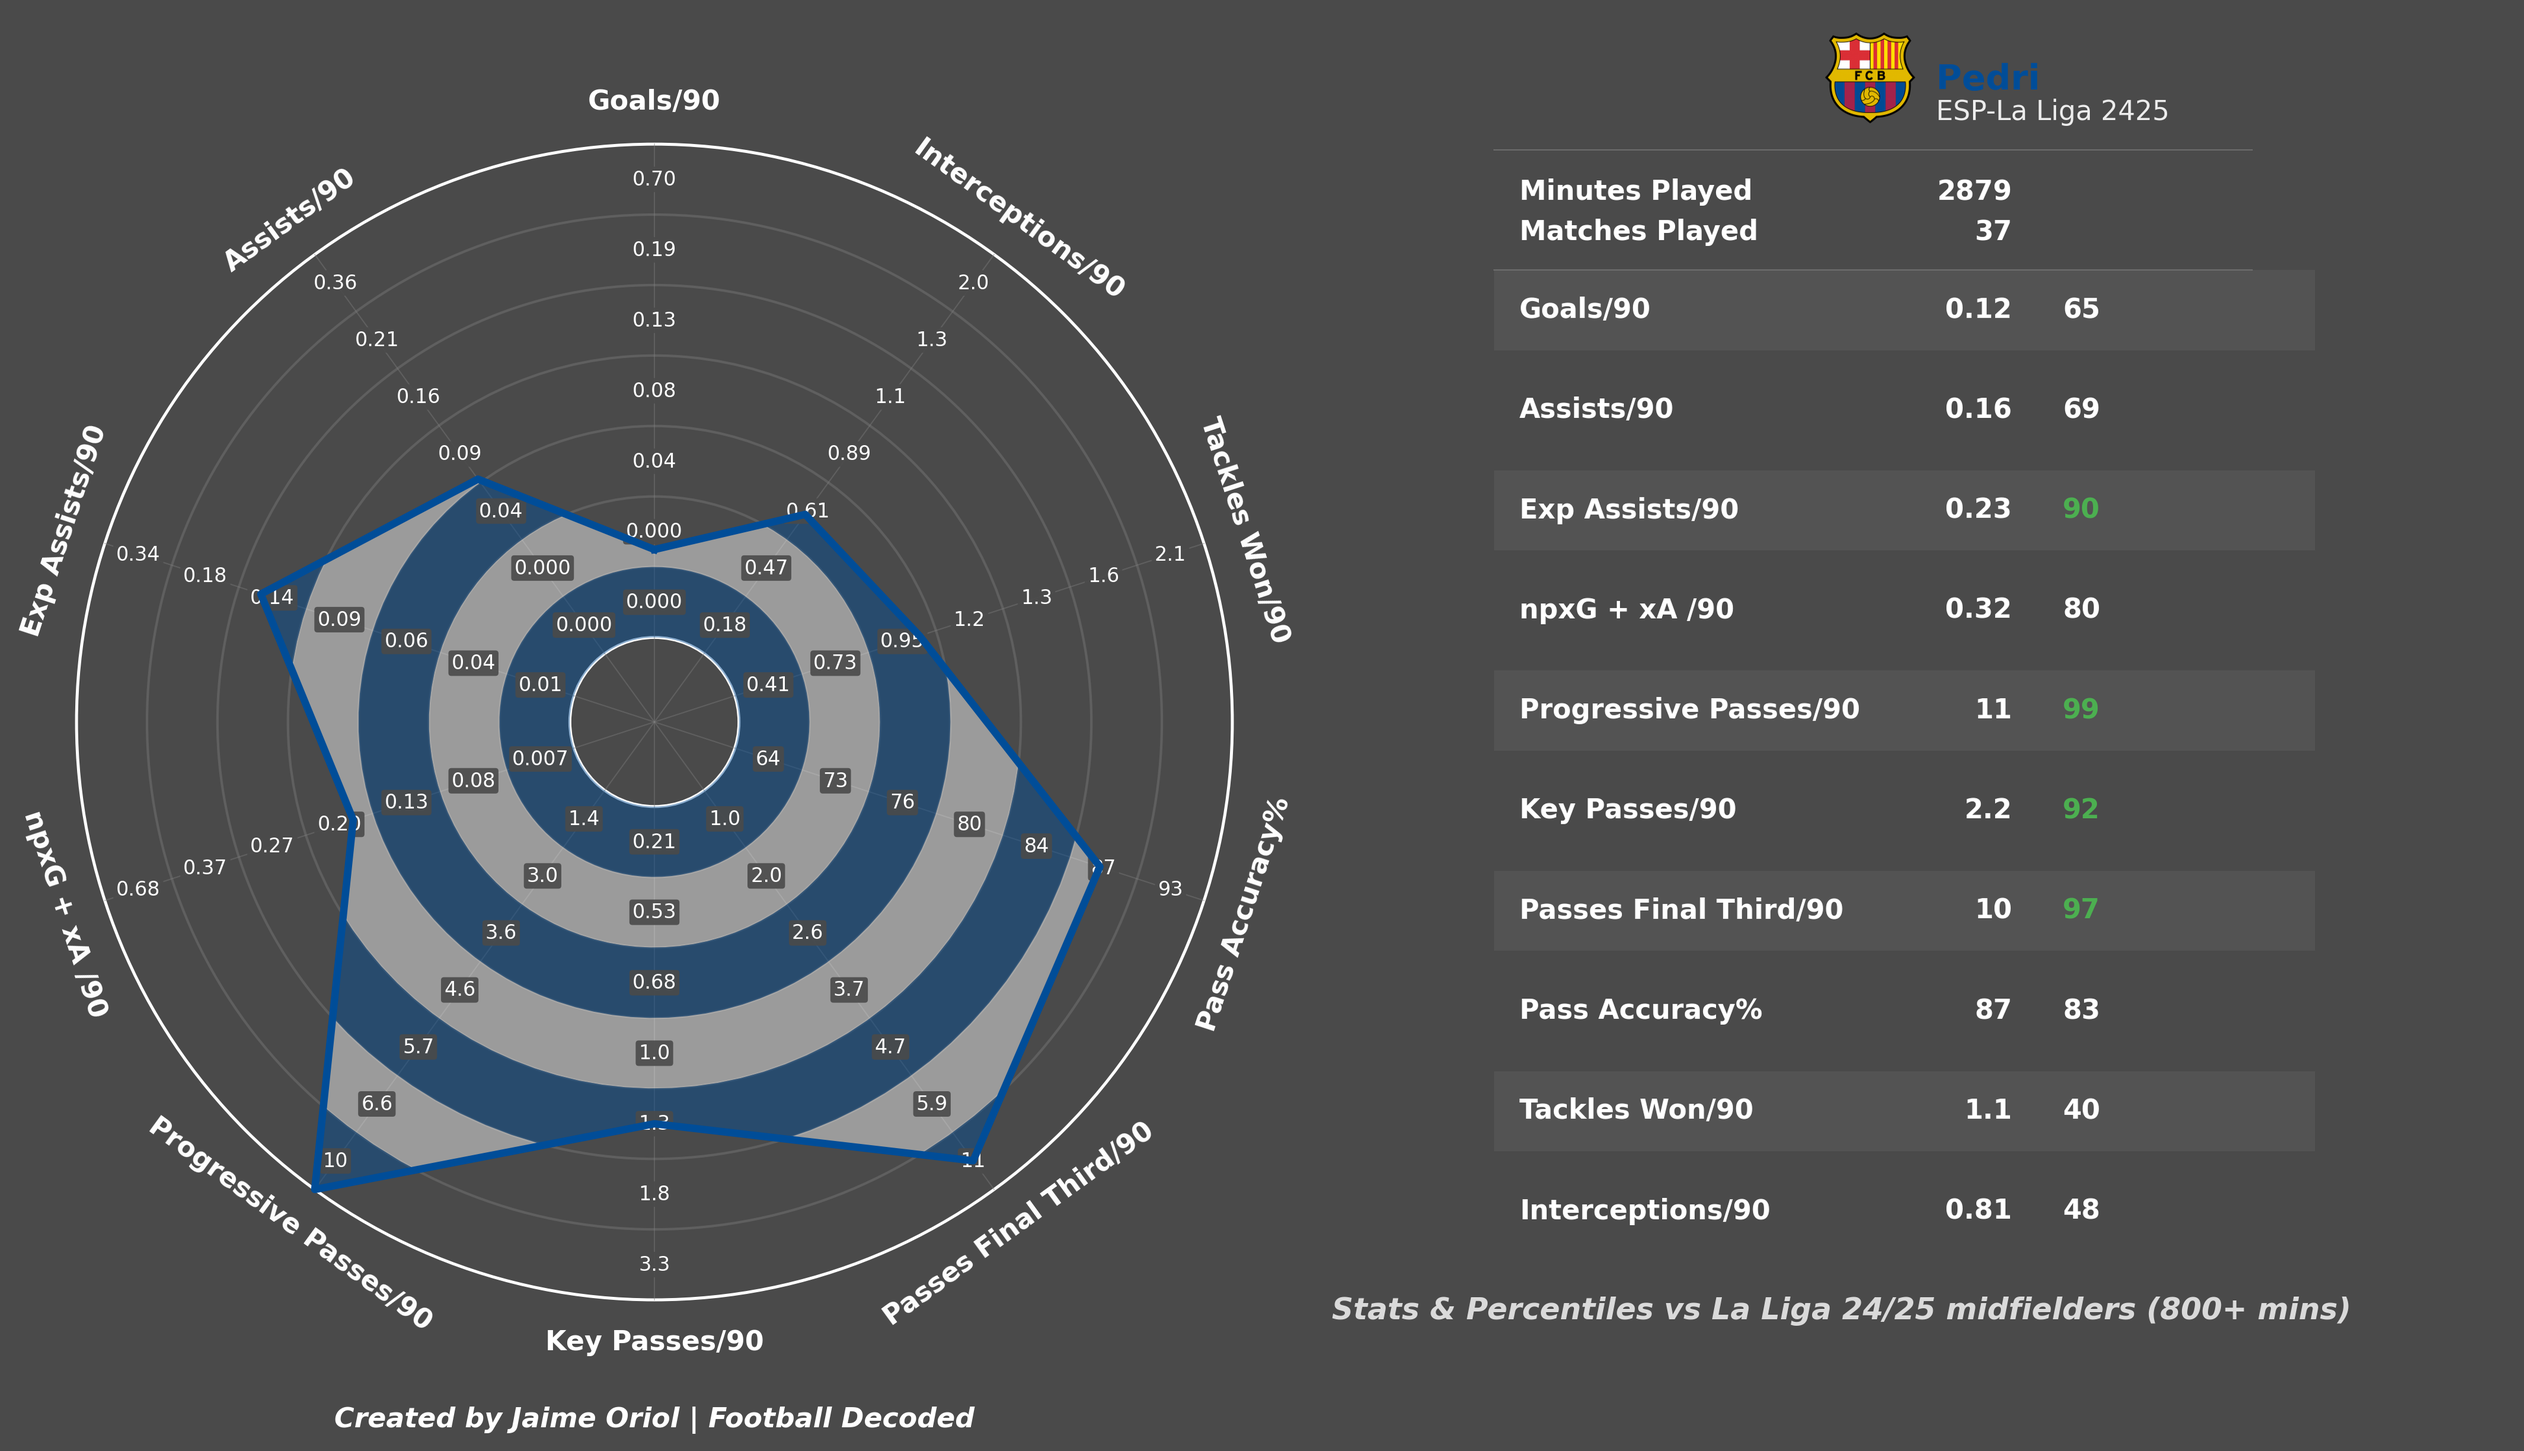
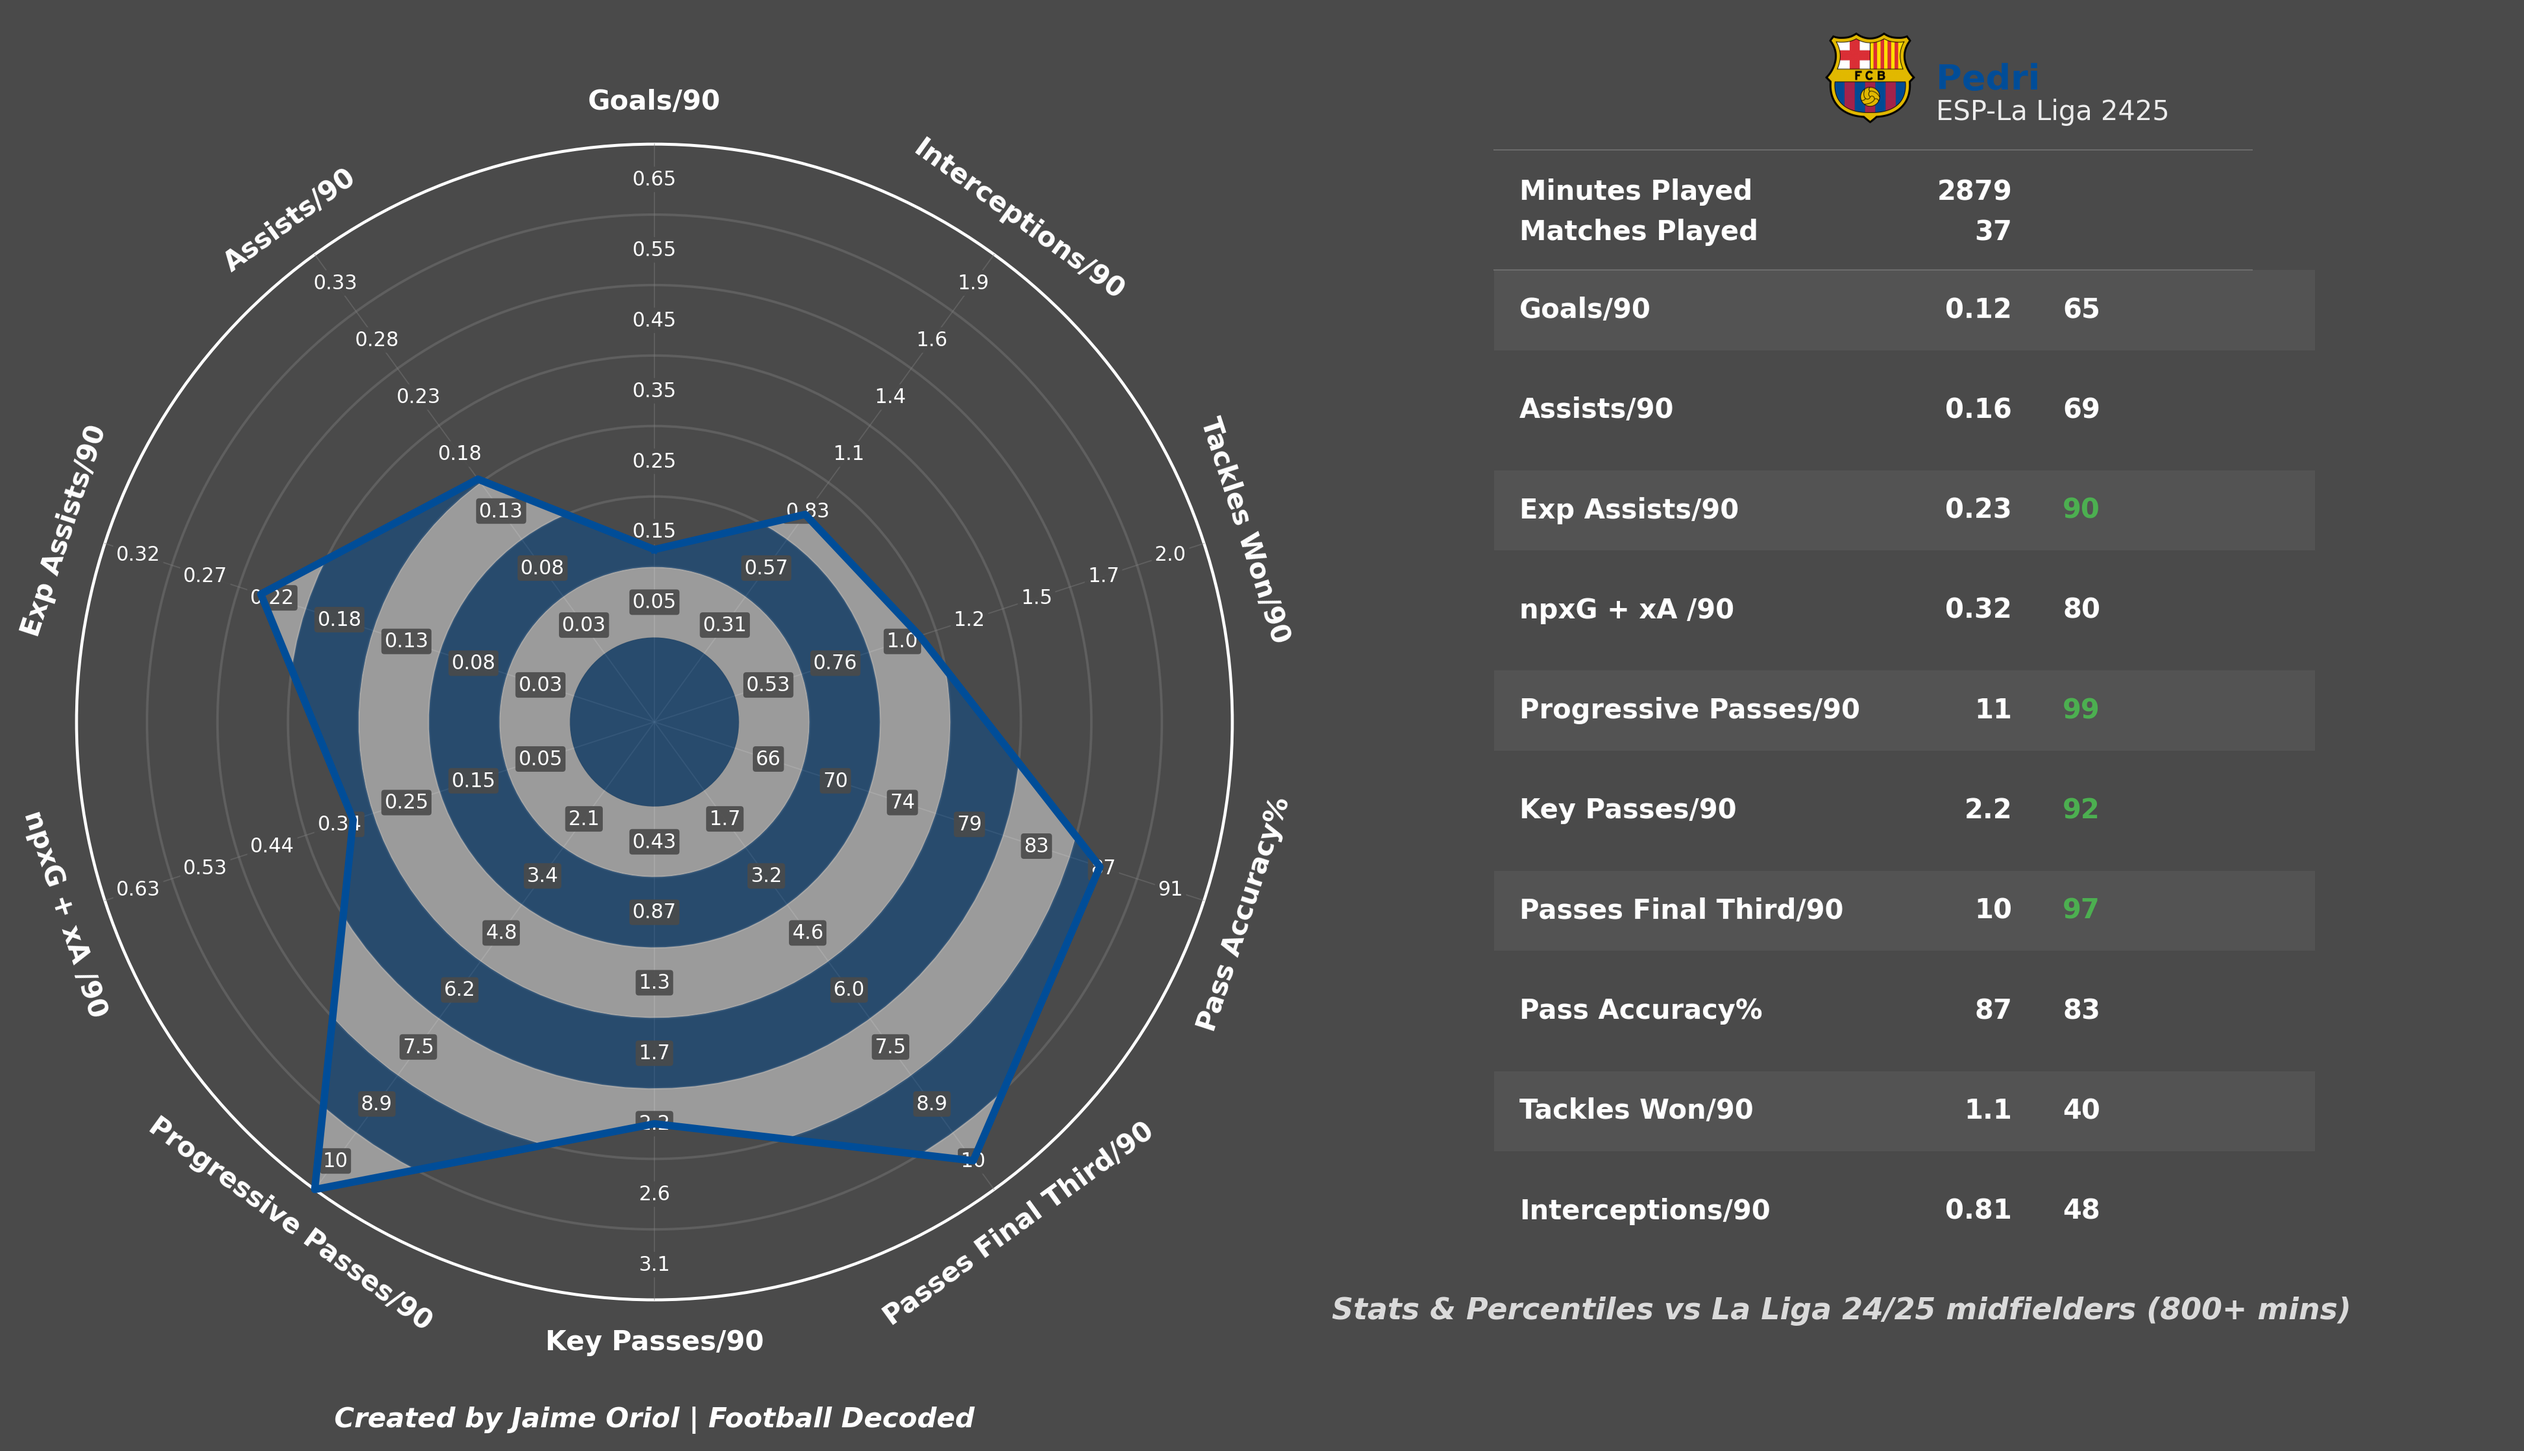
radar titles

Changed region(s): [[0.0937, 0.3415, 0.4373, 0.8382]]

diff --git a/viz/swarm_radar.py b/viz/swarm_radar.py
@@ -246,7 +246,7 @@ def _create_traditional_radar(df_data, player_1_data, player_2_data, metrics, me
     radius_circles = [3, 5.5, 8, 10.5, 13, 15.5, 18, 20.5]
     for i, rad in enumerate(radius_circles):
         if i == 0:  # Círculo interior
-            color, lw, alpha = 'white', 1.2, 1.0
+            continue
         elif i == len(radius_circles)-1:  # Círculo exterior
             color, lw, alpha = 'white', 1.2, 1.0
         else:  # Círculos intermedios
@@ -279,14 +279,21 @@ def _create_traditional_radar(df_data, player_1_data, player_2_data, metrics, me
         y_end = 20.5 * np.cos(angle)
         ax.plot([0, x_end], [0, y_end], color='grey', linewidth=0.5, alpha=0.4)
     
-    # 7 valores en círculos (radios más pequeños)
+    # 7 valores en círculos - CORREGIDO PARA USAR MISMOS RANGES QUE EL POLÍGONO
     range_radius = [4.25, 6.75, 9.25, 11.75, 14.25, 16.75, 19.25]
-    range_percentiles = [1, 15, 30, 50, 70, 85, 99]
     
-    for rad_idx, (rad, perc) in enumerate(zip(range_radius, range_percentiles)):
+    for rad_idx, rad in enumerate(range_radius):
         for i, (angle, metric) in enumerate(zip(angles, reordered_metrics)):
-            metric_data = df_data[metric].dropna()
-            val = np.percentile(metric_data, perc)
+            min_val, max_val = ranges[i]
+            
+            # Calcular valor usando divisiones lineales del rango del polígono
+            range_total = max_val - min_val
+            if range_total == 0:
+                val = min_val
+            else:
+                # Convertir radio a posición en el rango [0, 1]
+                rad_normalized = (rad - 3) / (20.5 - 3)  # 3 es radio mínimo, 20.5 máximo
+                val = min_val + rad_normalized * range_total
             
             x = rad * np.sin(angle)
             y = rad * np.cos(angle)
@@ -330,10 +337,17 @@ def _create_traditional_radar(df_data, player_1_data, player_2_data, metrics, me
     
     if player_2_data is None:
         # Solo un jugador - alternar colores por ANILLOS dentro del polígono
+        # EMPEZAR CON colors[1] en el centro
         
         # Primero crear el polígono base del jugador
         polygon_1 = Polygon(vertices_1, fc='none', alpha=1.0, zorder=1)
         ax.add_patch(polygon_1)
+        
+        # RELLENAR EL CÍRCULO CENTRAL
+        central_circle = plt.Circle(xy=(0, 0), radius=radius_circles[0], 
+                                fc=colors[0], ec='none', alpha=0.45, zorder=2)
+        central_circle.set_clip_path(polygon_1)
+        ax.add_patch(central_circle)
         
         # Crear anillos alternados SOLO dentro del polígono del jugador
         theta = np.linspace(0, 2*np.pi, 100)
@@ -342,8 +356,8 @@ def _create_traditional_radar(df_data, player_1_data, player_2_data, metrics, me
             inner_radius = radius_circles[i]
             outer_radius = radius_circles[i+1]
             
-            # Alternar colores por anillo
-            color_idx = i % 2
+            # Alternar colores por anillo - EMPEZAR CON colors[1]
+            color_idx = (i + 1) % 2  # Cambiado para empezar con colors[1]
             
             # Crear anillo como diferencia entre dos círculos
             x_outer = outer_radius * np.cos(theta)
